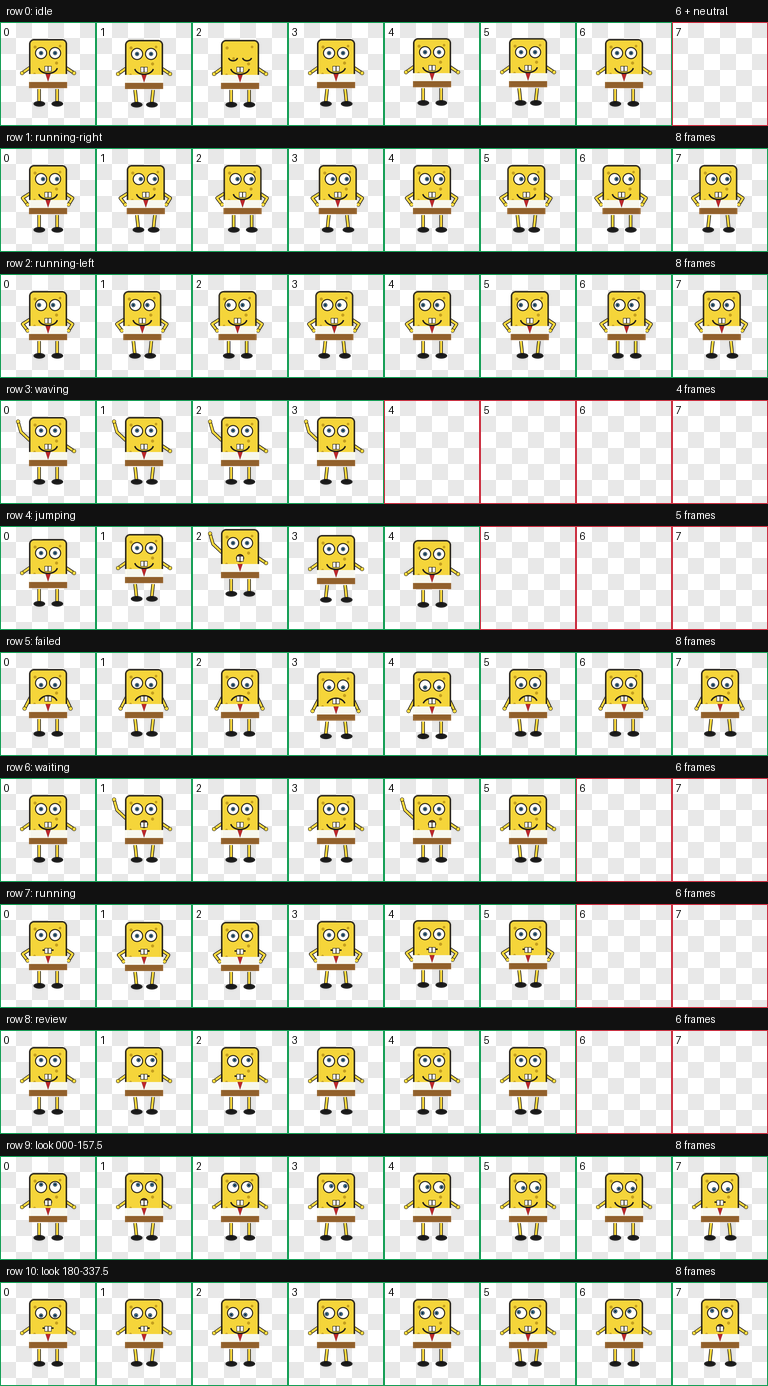
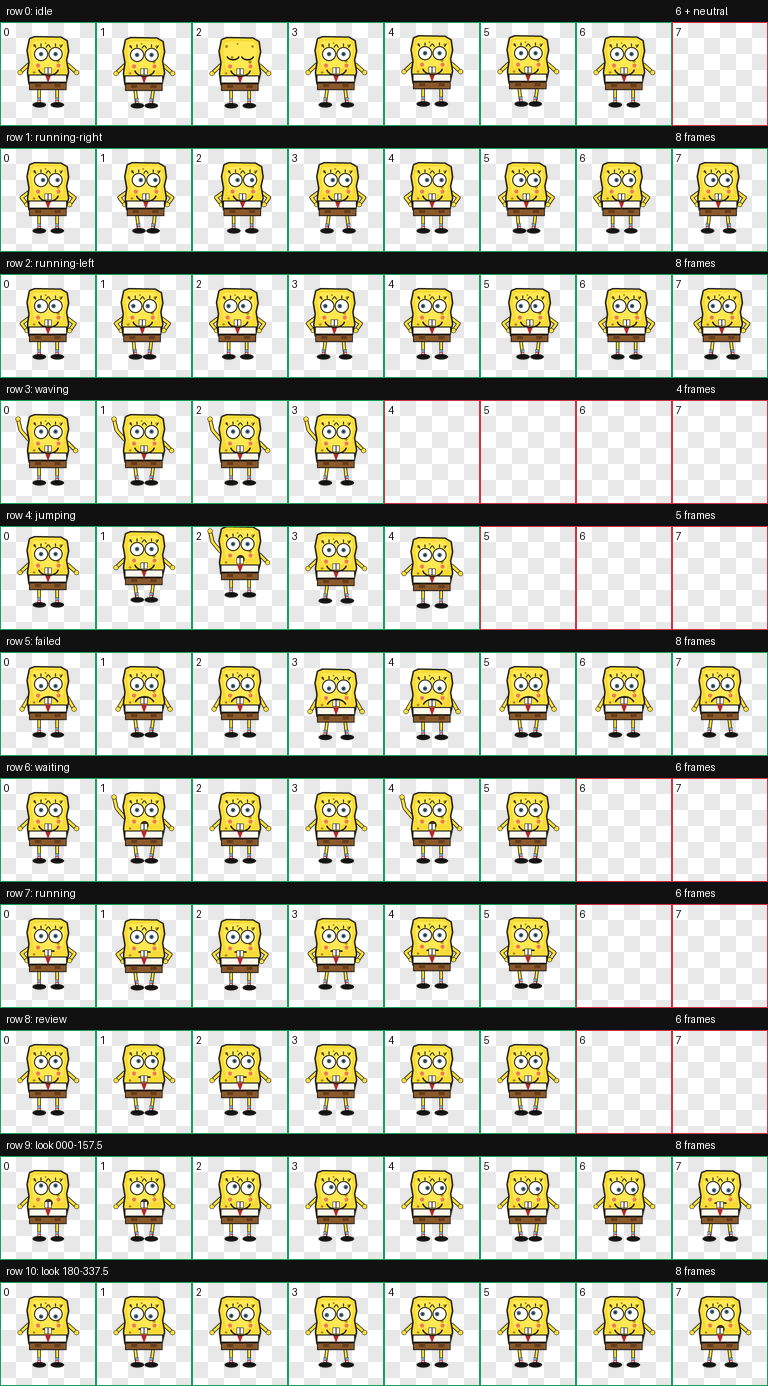
Redo SpongeBob pets with stable v2 art

diff --git a/scripts/generate_undersea_fan_pet.py b/scripts/generate_undersea_fan_pet.py
@@ -148,46 +148,84 @@ def draw_spongebob(draw: ImageDraw.ImageDraw, pose: dict[str, object]) -> None:
     arm_pose = str(pose["arm_pose"])
     leg_phase = float(pose["leg_phase"])
 
-    outline = (43, 38, 24, 255)
-    yellow = (245, 213, 58, 255)
-    dark = (196, 159, 31, 255)
+    outline = (34, 30, 22, 255)
+    yellow = (248, 219, 55, 255)
+    yellow_light = (255, 232, 82, 255)
+    dark = (179, 143, 25, 255)
     skin = yellow
-    for lx, stride in [(78, math.sin(leg_phase) * 8), (114, -math.sin(leg_phase) * 8)]:
-        draw_line(draw, [(lx + ox, 134 + oy), (lx + ox + stride * 0.35, 160 + oy)], outline, 7)
-        draw_line(draw, [(lx + ox, 134 + oy), (lx + ox + stride * 0.35, 160 + oy)], skin, 4)
-        draw.ellipse(box(lx + ox + stride * 0.35 - 11, 158 + oy, lx + ox + stride * 0.35 + 12, 169 + oy), fill=(24, 24, 24, 255))
+    shoe = (18, 18, 18, 255)
+    sock_blue = (62, 142, 205, 255)
+    sock_red = (206, 40, 43, 255)
 
-    left_arm = [(61 + ox, 90 + oy), (44 + ox, 102 + oy)]
-    right_arm = [(130 + ox, 90 + oy), (148 + ox, 102 + oy)]
+    # Legs, socks, shoes. Keep the feet grounded so the app-sized sprite
+    # does not look like it floats.
+    for lx, stride in [(78, math.sin(leg_phase) * 9), (114, -math.sin(leg_phase) * 9)]:
+        knee_x = lx + ox + stride * 0.22
+        foot_x = lx + ox + stride * 0.45
+        draw_line(draw, [(lx + ox, 132 + oy), (knee_x, 151 + oy), (foot_x, 163 + oy)], outline, 7)
+        draw_line(draw, [(lx + ox, 132 + oy), (knee_x, 151 + oy), (foot_x, 163 + oy)], skin, 4)
+        draw.rectangle(box(foot_x - 3, 151 + oy, foot_x + 3, 162 + oy), fill=(255, 252, 241, 255), outline=outline, width=sc(1))
+        draw.rectangle(box(foot_x - 3, 153 + oy, foot_x + 3, 155 + oy), fill=sock_blue)
+        draw.rectangle(box(foot_x - 3, 156 + oy, foot_x + 3, 158 + oy), fill=sock_red)
+        draw.ellipse(box(foot_x - 13, 160 + oy, foot_x + 14, 171 + oy), fill=shoe, outline=outline, width=sc(1))
+
+    left_arm = [(58 + ox, 84 + oy), (40 + ox, 101 + oy)]
+    right_arm = [(134 + ox, 84 + oy), (153 + ox, 101 + oy)]
     if arm_pose == "wave":
-        left_arm = [(61 + ox, 82 + oy), (42 + ox, 64 + oy), (36 + ox, 43 + oy)]
+        left_arm = [(58 + ox, 80 + oy), (41 + ox, 60 + oy), (36 + ox, 38 + oy)]
+        right_arm = [(134 + ox, 84 + oy), (151 + ox, 101 + oy)]
     elif arm_pose == "work":
-        left_arm = [(61 + ox, 90 + oy), (45 + ox, 100 + oy), (55 + ox, 113 + oy)]
-        right_arm = [(130 + ox, 90 + oy), (145 + ox, 100 + oy), (137 + ox, 113 + oy)]
+        left_arm = [(58 + ox, 88 + oy), (43 + ox, 99 + oy), (54 + ox, 113 + oy)]
+        right_arm = [(134 + ox, 88 + oy), (149 + ox, 99 + oy), (139 + ox, 113 + oy)]
     elif arm_pose == "failed":
-        left_arm = [(61 + ox, 90 + oy), (49 + ox, 113 + oy)]
-        right_arm = [(130 + ox, 90 + oy), (141 + ox, 113 + oy)]
+        left_arm = [(58 + ox, 90 + oy), (44 + ox, 114 + oy)]
+        right_arm = [(134 + ox, 90 + oy), (148 + ox, 114 + oy)]
     for arm in (left_arm, right_arm):
-        draw_line(draw, arm, outline, 7)
-        draw_line(draw, arm, skin, 4)
+        draw_line(draw, arm, outline, 8)
+        draw_line(draw, arm, skin, 5)
         hx, hy = arm[-1]
-        draw.ellipse(box(hx - 4, hy - 4, hx + 4, hy + 4), fill=skin, outline=outline, width=sc(1))
+        draw.ellipse(box(hx - 5, hy - 5, hx + 5, hy + 5), fill=skin, outline=outline, width=sc(1))
 
-    draw.rounded_rectangle(box(58 + ox, 34 + oy, 134 + ox, 130 + oy), radius=sc(10), fill=yellow, outline=outline, width=sc(3))
-    for px, py, r in [(70, 50, 3), (120, 48, 2.5), (83, 71, 2.5), (113, 82, 3), (69, 104, 2.5), (125, 111, 3.5), (96, 119, 2)]:
+    # Slightly irregular square silhouette: much more characterful than a
+    # perfect rounded rectangle, while still remaining clean at 192x208.
+    body_points = [
+        (59 + ox, 33 + oy), (69 + ox, 29 + oy), (122 + ox, 30 + oy),
+        (134 + ox, 37 + oy), (137 + ox, 58 + oy), (133 + ox, 76 + oy),
+        (137 + ox, 100 + oy), (130 + ox, 129 + oy), (115 + ox, 134 + oy),
+        (72 + ox, 132 + oy), (58 + ox, 124 + oy), (55 + ox, 101 + oy),
+        (58 + ox, 80 + oy), (54 + ox, 57 + oy),
+    ]
+    draw.polygon([point(x, y) for x, y in body_points], fill=yellow, outline=outline)
+    draw.line([point(x, y) for x, y in body_points + [body_points[0]]], fill=outline, width=sc(3), joint="curve")
+    draw.polygon([point(67 + ox, 38 + oy), point(122 + ox, 36 + oy), point(130 + ox, 52 + oy), point(125 + ox, 92 + oy), point(68 + ox, 92 + oy), point(62 + ox, 54 + oy)], fill=yellow_light)
+
+    for px, py, r in [(69, 47, 3), (121, 47, 2.5), (80, 69, 2.8), (116, 78, 3.2), (68, 101, 2.6), (125, 113, 3.5), (96, 121, 2.2), (91, 42, 1.8)]:
         draw.ellipse(box(px + ox - r, py + oy - r, px + ox + r, py + oy + r), fill=dark)
-    draw.rectangle(box(58 + ox, 104 + oy, 134 + ox, 120 + oy), fill=(247, 247, 238, 255))
-    draw.rectangle(box(58 + ox, 120 + oy, 134 + ox, 132 + oy), fill=(145, 96, 43, 255))
-    draw.polygon([point(91 + ox, 104 + oy), point(101 + ox, 104 + oy), point(96 + ox, 119 + oy)], fill=(190, 39, 44, 255), outline=outline)
+
+    # Shirt / shorts are part of the identity, make them readable.
+    draw.rectangle(box(57 + ox, 105 + oy, 134 + ox, 121 + oy), fill=(252, 249, 235, 255), outline=outline, width=sc(2))
+    draw.rectangle(box(58 + ox, 121 + oy, 133 + ox, 136 + oy), fill=(139, 89, 43, 255), outline=outline, width=sc(2))
+    draw.rectangle(box(70 + ox, 122 + oy, 82 + ox, 130 + oy), fill=(102, 62, 31, 255))
+    draw.rectangle(box(109 + ox, 122 + oy, 121 + ox, 130 + oy), fill=(102, 62, 31, 255))
+    draw.polygon([point(90 + ox, 105 + oy), point(102 + ox, 105 + oy), point(96 + ox, 122 + oy)], fill=(190, 39, 44, 255), outline=outline)
+
     if mood == "blink":
-        draw.arc(box(72 + ox, 62 + oy, 92 + ox, 77 + oy), 5, 175, fill=outline, width=sc(3))
-        draw.arc(box(100 + ox, 62 + oy, 120 + ox, 77 + oy), 5, 175, fill=outline, width=sc(3))
+        draw.arc(box(69 + ox, 58 + oy, 95 + ox, 75 + oy), 5, 175, fill=outline, width=sc(3))
+        draw.arc(box(98 + ox, 58 + oy, 124 + ox, 75 + oy), 5, 175, fill=outline, width=sc(3))
     else:
-        draw_eye(draw, 82 + ox, 62 + oy, gaze)  # type: ignore[arg-type]
-        draw_eye(draw, 110 + ox, 62 + oy, gaze)  # type: ignore[arg-type]
-    draw_smile(draw, 76 + ox, 76 + oy, 116 + ox, 104 + oy, mood)
-    draw.rectangle(box(89 + ox, 88 + oy, 96 + ox, 99 + oy), fill=(255, 255, 250, 255), outline=outline, width=sc(1))
-    draw.rectangle(box(96 + ox, 88 + oy, 103 + ox, 99 + oy), fill=(255, 255, 250, 255), outline=outline, width=sc(1))
+        draw_eye(draw, 82 + ox, 64 + oy, gaze, r=14)  # type: ignore[arg-type]
+        draw_eye(draw, 111 + ox, 64 + oy, gaze, r=14)  # type: ignore[arg-type]
+        # Eyelashes read well at final pet size and help avoid "generic square".
+        for ex in (82, 111):
+            draw.line([point(ex - 10 + ox, 51 + oy), point(ex - 14 + ox, 45 + oy)], fill=outline, width=sc(2))
+            draw.line([point(ex + ox, 49 + oy), point(ex + ox, 43 + oy)], fill=outline, width=sc(2))
+            draw.line([point(ex + 10 + ox, 51 + oy), point(ex + 14 + ox, 45 + oy)], fill=outline, width=sc(2))
+    # Cheeks and expressive smile.
+    draw.ellipse(box(72 + ox, 83 + oy, 80 + ox, 91 + oy), fill=(247, 121, 82, 255))
+    draw.ellipse(box(113 + ox, 83 + oy, 121 + ox, 91 + oy), fill=(247, 121, 82, 255))
+    draw_smile(draw, 76 + ox, 78 + oy, 118 + ox, 108 + oy, mood)
+    draw.rectangle(box(89 + ox, 91 + oy, 96 + ox, 104 + oy), fill=(255, 255, 250, 255), outline=outline, width=sc(1))
+    draw.rectangle(box(96 + ox, 91 + oy, 103 + ox, 104 + oy), fill=(255, 255, 250, 255), outline=outline, width=sc(1))
 
 
 def draw_patrick(draw: ImageDraw.ImageDraw, pose: dict[str, object]) -> None:
@@ -195,27 +233,42 @@ def draw_patrick(draw: ImageDraw.ImageDraw, pose: dict[str, object]) -> None:
     oy = float(pose["bob"])
     mood = str(pose["mood"])
     gaze = pose["gaze"]  # type: ignore[assignment]
-    outline = (53, 36, 39, 255)
-    pink = (244, 139, 154, 255)
-    shorts = (121, 199, 97, 255)
-    flower = (119, 80, 161, 255)
-    draw_line(draw, [(72 + ox, 136 + oy), (66 + ox, 162 + oy)], outline, 8)
-    draw_line(draw, [(120 + ox, 136 + oy), (126 + ox, 162 + oy)], outline, 8)
-    draw.polygon([point(96 + ox, 30 + oy), point(54 + ox, 137 + oy), point(138 + ox, 137 + oy)], fill=pink, outline=outline)
-    draw.rectangle(box(58 + ox, 118 + oy, 134 + ox, 143 + oy), fill=shorts, outline=outline, width=sc(2))
-    for px in (74, 113):
-        draw.ellipse(box(px + ox - 8, 124 + oy - 4, px + ox + 8, 124 + oy + 4), fill=flower)
+    outline = (58, 37, 42, 255)
+    pink = (245, 139, 154, 255)
+    pink_light = (255, 163, 176, 255)
+    shorts = (116, 202, 92, 255)
+    flower = (121, 75, 164, 255)
+    for lx, stride in [(75, math.sin(float(pose["leg_phase"])) * 6), (116, -math.sin(float(pose["leg_phase"])) * 6)]:
+        draw_line(draw, [(lx + ox, 136 + oy), (lx + stride * 0.35 + ox, 162 + oy)], outline, 9)
+        draw_line(draw, [(lx + ox, 136 + oy), (lx + stride * 0.35 + ox, 162 + oy)], pink, 6)
+        draw.ellipse(box(lx + stride * 0.35 + ox - 9, 159 + oy, lx + stride * 0.35 + ox + 11, 170 + oy), fill=pink, outline=outline, width=sc(1))
+    body = [
+        (95 + ox, 26 + oy), (108 + ox, 57 + oy), (139 + ox, 62 + oy),
+        (121 + ox, 96 + oy), (139 + ox, 139 + oy), (109 + ox, 135 + oy),
+        (96 + ox, 154 + oy), (82 + ox, 135 + oy), (52 + ox, 139 + oy),
+        (70 + ox, 96 + oy), (53 + ox, 62 + oy), (84 + ox, 57 + oy),
+    ]
+    draw.polygon([point(x, y) for x, y in body], fill=pink, outline=outline)
+    draw.line([point(x, y) for x, y in body + [body[0]]], fill=outline, width=sc(3), joint="curve")
+    draw.polygon([point(92 + ox, 42 + oy), point(104 + ox, 68 + oy), point(117 + ox, 83 + oy), point(103 + ox, 119 + oy), point(84 + ox, 118 + oy), point(73 + ox, 83 + oy)], fill=pink_light)
+    draw.polygon([point(61 + ox, 116 + oy), point(132 + ox, 116 + oy), point(137 + ox, 139 + oy), point(111 + ox, 146 + oy), point(96 + ox, 134 + oy), point(80 + ox, 146 + oy), point(55 + ox, 139 + oy)], fill=shorts, outline=outline)
+    for px, py in [(75, 126), (112, 128), (95, 139)]:
+        draw.ellipse(box(px + ox - 8, py + oy - 5, px + ox + 8, py + oy + 5), fill=flower, outline=(86, 56, 125, 255), width=sc(1))
     if str(pose["arm_pose"]) == "wave":
         left = [(58 + ox, 85 + oy), (35 + ox, 58 + oy)]
     else:
         left = [(58 + ox, 90 + oy), (34 + ox, 110 + oy)]
     right = [(134 + ox, 90 + oy), (158 + ox, 110 + oy)]
     for arm in (left, right):
-        draw_line(draw, arm, outline, 8)
-        draw_line(draw, arm, pink, 5)
-    draw_eye(draw, 86 + ox, 76 + oy, gaze, r=9, iris=(45, 45, 45, 255))  # type: ignore[arg-type]
-    draw_eye(draw, 108 + ox, 76 + oy, gaze, r=9, iris=(45, 45, 45, 255))  # type: ignore[arg-type]
-    draw_smile(draw, 77 + ox, 87 + oy, 117 + ox, 113 + oy, mood)
+        draw_line(draw, arm, outline, 10)
+        draw_line(draw, arm, pink, 7)
+        hx, hy = arm[-1]
+        draw.ellipse(box(hx - 7, hy - 6, hx + 7, hy + 6), fill=pink, outline=outline, width=sc(1))
+    draw_eye(draw, 86 + ox, 74 + oy, gaze, r=10, iris=(45, 45, 45, 255))  # type: ignore[arg-type]
+    draw_eye(draw, 108 + ox, 74 + oy, gaze, r=10, iris=(45, 45, 45, 255))  # type: ignore[arg-type]
+    draw.ellipse(box(73 + ox, 91 + oy, 81 + ox, 99 + oy), fill=(235, 106, 128, 255))
+    draw.ellipse(box(112 + ox, 91 + oy, 120 + ox, 99 + oy), fill=(235, 106, 128, 255))
+    draw_smile(draw, 77 + ox, 86 + oy, 117 + ox, 116 + oy, mood)
 
 
 def draw_krabs(draw: ImageDraw.ImageDraw, pose: dict[str, object]) -> None:
@@ -223,30 +276,37 @@ def draw_krabs(draw: ImageDraw.ImageDraw, pose: dict[str, object]) -> None:
     oy = float(pose["bob"])
     mood = str(pose["mood"])
     gaze = pose["gaze"]  # type: ignore[assignment]
-    outline = (50, 25, 24, 255)
-    red = (210, 42, 39, 255)
-    shirt = (117, 198, 214, 255)
-    pants = (76, 71, 168, 255)
-    for lx in (76, 116):
-        draw_line(draw, [(lx + ox, 132 + oy), (lx - 8 + ox, 162 + oy)], outline, 7)
-        draw_line(draw, [(lx + ox, 132 + oy), (lx - 8 + ox, 162 + oy)], red, 4)
-    draw.ellipse(box(55 + ox, 55 + oy, 137 + ox, 137 + oy), fill=red, outline=outline, width=sc(3))
-    draw.rectangle(box(62 + ox, 104 + oy, 130 + ox, 132 + oy), fill=shirt, outline=outline, width=sc(2))
-    draw.rectangle(box(70 + ox, 128 + oy, 122 + ox, 143 + oy), fill=pants, outline=outline, width=sc(2))
+    outline = (52, 24, 22, 255)
+    red = (212, 42, 39, 255)
+    red_light = (238, 67, 54, 255)
+    shirt = (112, 203, 220, 255)
+    pants = (75, 68, 166, 255)
+    for lx, stride in [(75, math.sin(float(pose["leg_phase"])) * 5), (116, -math.sin(float(pose["leg_phase"])) * 5)]:
+        draw_line(draw, [(lx + ox, 132 + oy), (lx - 6 + stride + ox, 162 + oy)], outline, 8)
+        draw_line(draw, [(lx + ox, 132 + oy), (lx - 6 + stride + ox, 162 + oy)], red, 5)
+        draw.ellipse(box(lx - 16 + stride + ox, 159 + oy, lx + 2 + stride + ox, 169 + oy), fill=(42, 25, 24, 255))
+    draw.ellipse(box(52 + ox, 54 + oy, 140 + ox, 139 + oy), fill=red, outline=outline, width=sc(3))
+    draw.pieslice(box(59 + ox, 62 + oy, 133 + ox, 133 + oy), 205, 335, fill=red_light)
+    draw.rectangle(box(61 + ox, 103 + oy, 131 + ox, 132 + oy), fill=shirt, outline=outline, width=sc(2))
+    draw.polygon([point(66 + ox, 103 + oy), point(96 + ox, 124 + oy), point(126 + ox, 103 + oy)], fill=(236, 244, 231, 255), outline=outline)
+    draw.rectangle(box(70 + ox, 128 + oy, 122 + ox, 145 + oy), fill=pants, outline=outline, width=sc(2))
+    draw.rectangle(box(91 + ox, 128 + oy, 101 + ox, 145 + oy), fill=(48, 45, 112, 255))
     for ex in (80, 112):
-        draw_line(draw, [(ex + ox, 60 + oy), (ex + ox, 31 + oy)], outline, 6)
-        draw_line(draw, [(ex + ox, 60 + oy), (ex + ox, 31 + oy)], red, 3)
-        draw_eye(draw, ex + ox, 30 + oy, gaze, r=8, iris=(35, 45, 35, 255))  # type: ignore[arg-type]
+        draw_line(draw, [(ex + ox, 61 + oy), (ex + ox, 28 + oy)], outline, 7)
+        draw_line(draw, [(ex + ox, 61 + oy), (ex + ox, 28 + oy)], red, 4)
+        draw_eye(draw, ex + ox, 28 + oy, gaze, r=9, iris=(33, 48, 37, 255))  # type: ignore[arg-type]
     if str(pose["arm_pose"]) == "wave":
         left = [(58 + ox, 87 + oy), (34 + ox, 62 + oy)]
     else:
         left = [(58 + ox, 92 + oy), (31 + ox, 107 + oy)]
     right = [(134 + ox, 92 + oy), (161 + ox, 107 + oy)]
     for arm, claw_x, claw_y in ((left, left[-1][0], left[-1][1]), (right, right[-1][0], right[-1][1])):
-        draw_line(draw, arm, outline, 8)
-        draw_line(draw, arm, red, 5)
-        draw.ellipse(box(claw_x - 11, claw_y - 8, claw_x + 11, claw_y + 10), fill=red, outline=outline, width=sc(2))
-    draw_smile(draw, 78 + ox, 82 + oy, 116 + ox, 111 + oy, mood)
+        draw_line(draw, arm, outline, 9)
+        draw_line(draw, arm, red, 6)
+        draw.ellipse(box(claw_x - 13, claw_y - 10, claw_x + 10, claw_y + 12), fill=red, outline=outline, width=sc(2))
+        draw.pieslice(box(claw_x - 18, claw_y - 15, claw_x + 3, claw_y + 6), 220, 45, fill=red_light, outline=outline, width=sc(2))
+        draw.line([point(claw_x - 3, claw_y - 2), point(claw_x + 10, claw_y - 13)], fill=outline, width=sc(2))
+    draw_smile(draw, 78 + ox, 82 + oy, 116 + ox, 113 + oy, mood)
 
 
 def draw_plankton(draw: ImageDraw.ImageDraw, pose: dict[str, object]) -> None:
@@ -254,23 +314,28 @@ def draw_plankton(draw: ImageDraw.ImageDraw, pose: dict[str, object]) -> None:
     oy = float(pose["bob"])
     mood = "focused" if str(pose["mood"]) == "happy" else str(pose["mood"])
     gaze = pose["gaze"]  # type: ignore[assignment]
-    outline = (25, 47, 35, 255)
-    green = (78, 157, 94, 255)
-    draw_line(draw, [(84 + ox, 57 + oy), (68 + ox, 22 + oy)], outline, 4)
-    draw_line(draw, [(108 + ox, 57 + oy), (124 + ox, 22 + oy)], outline, 4)
-    draw.ellipse(box(69 + ox, 50 + oy, 123 + ox, 150 + oy), fill=green, outline=outline, width=sc(3))
-    draw_eye(draw, 96 + ox, 84 + oy, gaze, r=18, iris=(198, 44, 55, 255))  # type: ignore[arg-type]
-    draw_smile(draw, 82 + ox, 104 + oy, 110 + ox, 129 + oy, mood)
+    outline = (23, 48, 35, 255)
+    green = (79, 164, 93, 255)
+    green_light = (111, 193, 113, 255)
+    draw_line(draw, [(84 + ox, 58 + oy), (69 + ox, 25 + oy), (64 + ox, 15 + oy)], outline, 5)
+    draw_line(draw, [(108 + ox, 58 + oy), (123 + ox, 25 + oy), (128 + ox, 15 + oy)], outline, 5)
+    draw.ellipse(box(69 + ox, 48 + oy, 123 + ox, 154 + oy), fill=green, outline=outline, width=sc(3))
+    draw.ellipse(box(82 + ox, 57 + oy, 110 + ox, 142 + oy), fill=green_light)
+    draw_eye(draw, 96 + ox, 84 + oy, gaze, r=20, iris=(200, 42, 54, 255))  # type: ignore[arg-type]
+    draw.line([point(77 + ox, 68 + oy), point(88 + ox, 63 + oy)], fill=outline, width=sc(3))
+    draw.line([point(104 + ox, 63 + oy), point(116 + ox, 68 + oy)], fill=outline, width=sc(3))
+    draw_smile(draw, 80 + ox, 107 + oy, 112 + ox, 133 + oy, mood)
     if str(pose["arm_pose"]) == "wave":
         left = [(73 + ox, 105 + oy), (50 + ox, 79 + oy)]
     else:
         left = [(73 + ox, 109 + oy), (52 + ox, 121 + oy)]
     right = [(119 + ox, 109 + oy), (140 + ox, 121 + oy)]
     for arm in (left, right):
-        draw_line(draw, arm, outline, 5)
-        draw_line(draw, arm, green, 3)
+        draw_line(draw, arm, outline, 6)
+        draw_line(draw, arm, green, 4)
     for lx in (84, 108):
-        draw_line(draw, [(lx + ox, 148 + oy), (lx + ox, 166 + oy)], outline, 5)
+        draw_line(draw, [(lx + ox, 149 + oy), (lx + ox, 166 + oy)], outline, 5)
+        draw.ellipse(box(lx + ox - 5, 164 + oy, lx + ox + 5, 170 + oy), fill=outline)
 
 
 def draw_squidward(draw: ImageDraw.ImageDraw, pose: dict[str, object]) -> None:
@@ -279,26 +344,32 @@ def draw_squidward(draw: ImageDraw.ImageDraw, pose: dict[str, object]) -> None:
     mood = "focused" if str(pose["mood"]) == "happy" else str(pose["mood"])
     gaze = pose["gaze"]  # type: ignore[assignment]
     outline = (37, 62, 58, 255)
-    teal = (116, 190, 181, 255)
-    shirt = (121, 87, 52, 255)
-    draw.ellipse(box(64 + ox, 30 + oy, 128 + ox, 93 + oy), fill=teal, outline=outline, width=sc(3))
-    draw.rounded_rectangle(box(83 + ox, 77 + oy, 109 + ox, 126 + oy), radius=sc(12), fill=teal, outline=outline, width=sc(3))
-    draw.rectangle(box(72 + ox, 112 + oy, 120 + ox, 138 + oy), fill=shirt, outline=outline, width=sc(2))
-    draw.rounded_rectangle(box(86 + ox, 72 + oy, 106 + ox, 108 + oy), radius=sc(9), fill=teal, outline=outline, width=sc(2))
-    draw_eye(draw, 84 + ox, 60 + oy, gaze, r=10, iris=(189, 169, 51, 255))  # type: ignore[arg-type]
-    draw_eye(draw, 108 + ox, 60 + oy, gaze, r=10, iris=(189, 169, 51, 255))  # type: ignore[arg-type]
-    draw_smile(draw, 80 + ox, 92 + oy, 112 + ox, 118 + oy, mood)
+    teal = (114, 190, 181, 255)
+    teal_light = (146, 210, 201, 255)
+    shirt = (122, 86, 52, 255)
+    draw.ellipse(box(60 + ox, 27 + oy, 132 + ox, 97 + oy), fill=teal, outline=outline, width=sc(3))
+    draw.ellipse(box(73 + ox, 39 + oy, 119 + ox, 84 + oy), fill=teal_light)
+    draw.rounded_rectangle(box(82 + ox, 78 + oy, 110 + ox, 128 + oy), radius=sc(12), fill=teal, outline=outline, width=sc(3))
+    draw.polygon([point(70 + ox, 112 + oy), point(122 + ox, 112 + oy), point(129 + ox, 139 + oy), point(63 + ox, 139 + oy)], fill=shirt, outline=outline)
+    draw.rounded_rectangle(box(85 + ox, 72 + oy, 107 + ox, 112 + oy), radius=sc(10), fill=teal, outline=outline, width=sc(2))
+    draw.line([point(96 + ox, 89 + oy), point(96 + ox, 107 + oy)], fill=outline, width=sc(2))
+    draw_eye(draw, 83 + ox, 61 + oy, gaze, r=11, iris=(191, 169, 51, 255))  # type: ignore[arg-type]
+    draw_eye(draw, 109 + ox, 61 + oy, gaze, r=11, iris=(191, 169, 51, 255))  # type: ignore[arg-type]
+    draw.line([point(75 + ox, 50 + oy), point(91 + ox, 49 + oy)], fill=outline, width=sc(2))
+    draw.line([point(101 + ox, 49 + oy), point(117 + ox, 50 + oy)], fill=outline, width=sc(2))
+    draw_smile(draw, 80 + ox, 94 + oy, 112 + ox, 121 + oy, mood)
     if str(pose["arm_pose"]) == "wave":
         left = [(73 + ox, 119 + oy), (50 + ox, 91 + oy)]
     else:
         left = [(73 + ox, 121 + oy), (50 + ox, 133 + oy)]
     right = [(119 + ox, 121 + oy), (142 + ox, 133 + oy)]
     for arm in (left, right):
-        draw_line(draw, arm, outline, 6)
-        draw_line(draw, arm, teal, 4)
-    for lx in (84, 96, 108):
-        draw_line(draw, [(lx + ox, 137 + oy), (lx - 7 + ox, 165 + oy)], outline, 5)
-        draw_line(draw, [(lx + ox, 137 + oy), (lx - 7 + ox, 165 + oy)], teal, 3)
+        draw_line(draw, arm, outline, 7)
+        draw_line(draw, arm, teal, 5)
+    for lx, stride in [(82, -5), (96, 0), (110, 5)]:
+        draw_line(draw, [(lx + ox, 137 + oy), (lx + stride + ox, 165 + oy)], outline, 6)
+        draw_line(draw, [(lx + ox, 137 + oy), (lx + stride + ox, 165 + oy)], teal, 4)
+        draw.ellipse(box(lx + stride + ox - 5, 163 + oy, lx + stride + ox + 7, 170 + oy), fill=teal, outline=outline, width=sc(1))
 
 
 DRAWERS = {
